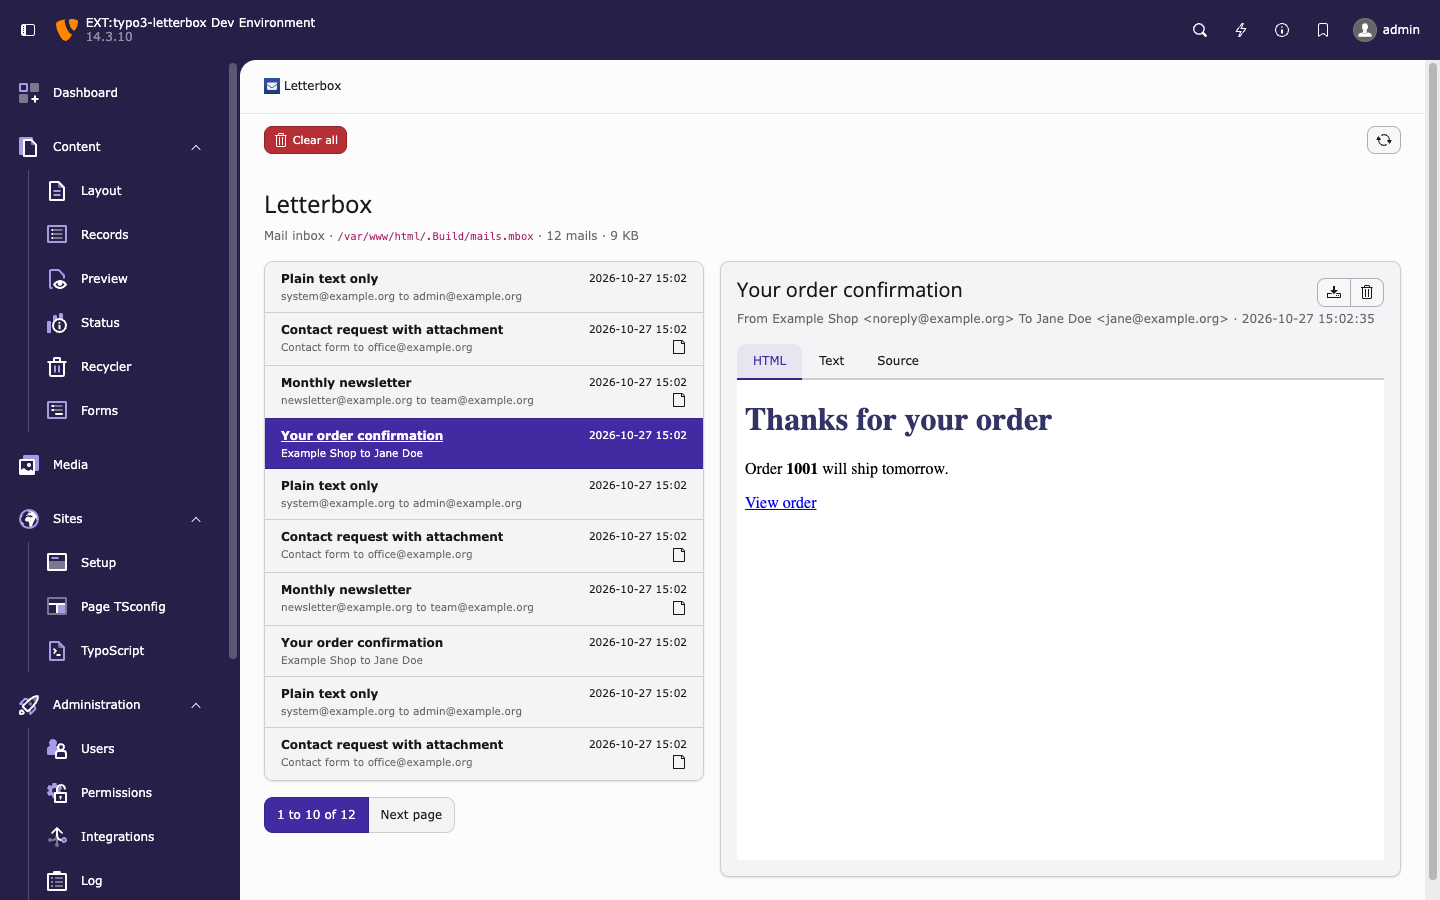
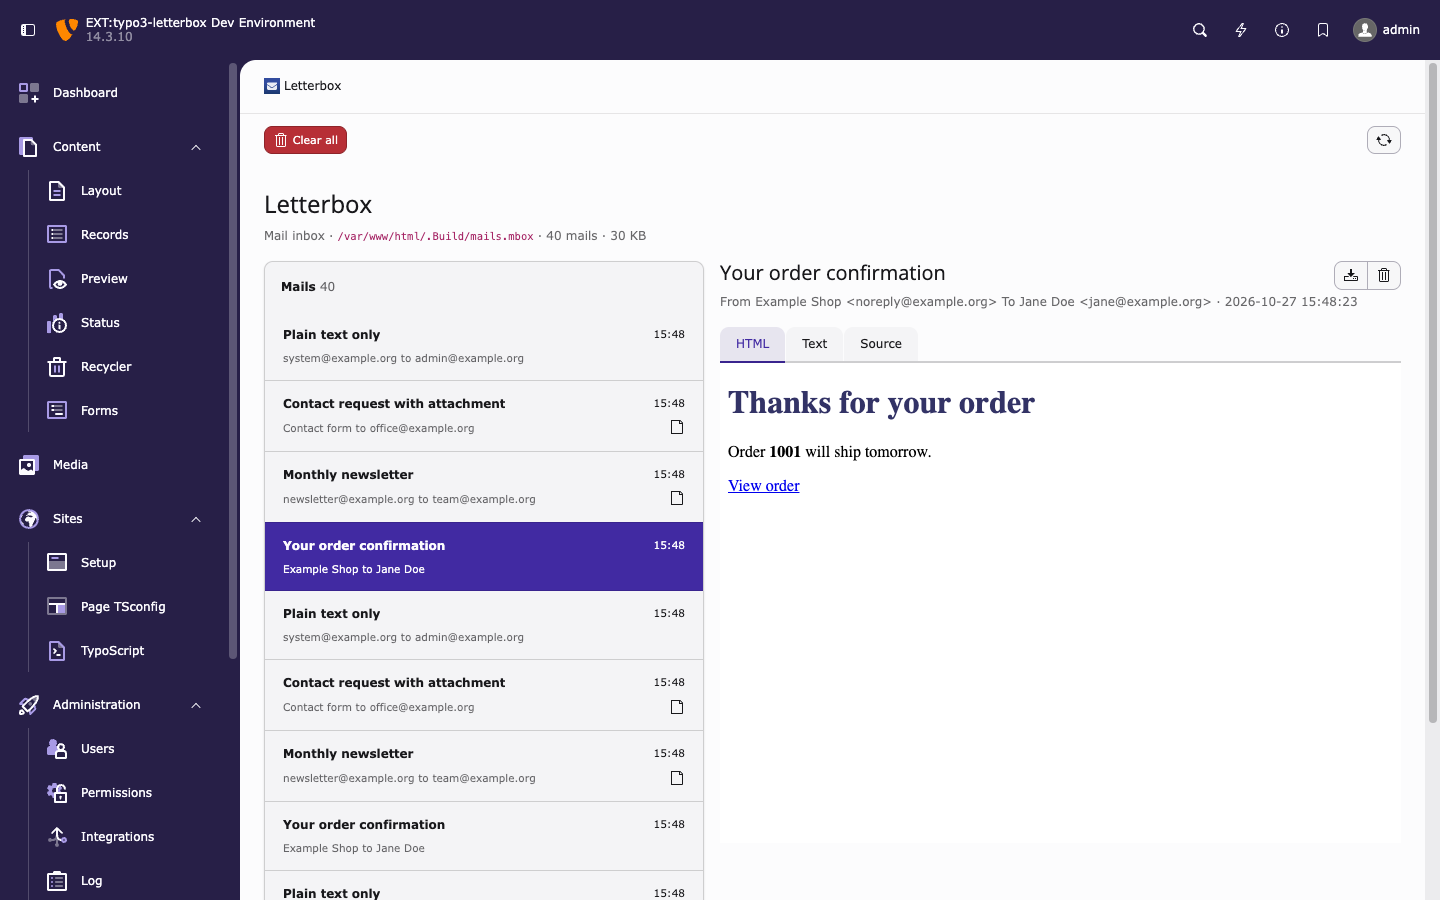
fix: align inbox layout with design

diff --git a/Resources/Private/Partials/MailList.html b/Resources/Private/Partials/MailList.html
@@ -9,66 +9,85 @@
 </form>
 
 <div class="card letterbox-list">
-    <ul class="list-group list-group-flush" aria-label="{f:translate(key: 'inbox.mailList', extensionName: 'Typo3Letterbox')}">
+    <div class="card-header">
+        <span class="fw-bold" id="letterbox-list-label"><f:translate key="inbox.mailList" extensionName="Typo3Letterbox" /></span>
+        <span class="text-variant">{total}</span>
+    </div>
+    <ul class="list-group list-group-flush" aria-labelledby="letterbox-list-label">
         <f:for each="{mails}" as="mail">
             <f:variable name="url" value="{f:be.uri(route: 'system_letterbox.show', parameters: {id: mail.id, page: page})}" />
             <f:variable name="isSelected" value="{f:if(condition: '{mail.id} == {selectedId}', then: 1, else: 0)}" />
-            <li class="list-group-item list-group-item-action{f:if(condition: isSelected, then: ' active')}">
-                <span class="d-flex justify-content-between gap-2">
-                    <f:if condition="{isSelected}">
-                        <f:then>
-                            <a href="{url}" class="stretched-link text-reset text-truncate fw-bold" aria-current="true"><f:render section="LinkText" arguments="{mail: mail}" /></a>
-                        </f:then>
-                        <f:else>
-                            <a href="{url}" class="stretched-link text-reset text-truncate fw-bold"><f:render section="LinkText" arguments="{mail: mail}" /></a>
-                        </f:else>
-                    </f:if>
-                    <f:if condition="{mail.date}">
-                        <small class="text-nowrap"><f:format.date date="{mail.date}" format="Y-m-d H:i" /></small>
-                    </f:if>
-                </span>
-                <span class="d-flex justify-content-between gap-2">
-                    <small class="text-truncate{f:if(condition: isSelected, else: ' text-variant')}">
-                        <f:render section="AddressName" arguments="{address: mail.from}" />
-                        <f:if condition="{mail.to.0}">
-                            <f:translate key="inbox.to" extensionName="Typo3Letterbox" />
-                            <f:render section="AddressName" arguments="{address: mail.to.0}" />
-                        </f:if>
-                    </small>
-                    <f:if condition="{mail.attachments}">
-                        <span class="text-nowrap" aria-hidden="true"><core:icon identifier="actions-file" size="small" /></span>
-                    </f:if>
-                </span>
+            <li class="list-group-item list-group-item-action p-0{f:if(condition: isSelected, then: ' active')}">
+                <f:if condition="{isSelected}">
+                    <f:then>
+                        <a href="{url}" class="letterbox-row text-reset text-decoration-none" aria-current="true"><f:render section="RowContent" arguments="{mail: mail, isSelected: isSelected, listDates: listDates}" /></a>
+                    </f:then>
+                    <f:else>
+                        <a href="{url}" class="letterbox-row text-reset text-decoration-none"><f:render section="RowContent" arguments="{mail: mail, isSelected: isSelected, listDates: listDates}" /></a>
+                    </f:else>
+                </f:if>
             </li>
         </f:for>
     </ul>
+    <f:if condition="{paginator.numberOfPages} > 1">
+        <div class="card-footer d-flex flex-wrap justify-content-between align-items-center gap-2">
+            <span aria-live="polite">
+                <f:translate key="inbox.pagination.range" extensionName="Typo3Letterbox" arguments="{0: pagination.startRecordNumber, 1: pagination.endRecordNumber, 2: total}" />
+            </span>
+            <nav aria-label="{f:translate(key: 'inbox.pagination', extensionName: 'Typo3Letterbox')}">
+                <ul class="pagination mb-0">
+                    <f:if condition="{pagination.previousPageNumber}">
+                        <li class="page-item">
+                            <a class="page-link" href="{f:be.uri(route: 'system_letterbox', parameters: {page: pagination.previousPageNumber})}" title="{f:translate(key: 'inbox.pagination.previous', extensionName: 'Typo3Letterbox')}">
+                                <span aria-hidden="true"><core:icon identifier="actions-chevron-left" /></span>
+                                <span class="visually-hidden"><f:translate key="inbox.pagination.previous" extensionName="Typo3Letterbox" /></span>
+                            </a>
+                        </li>
+                    </f:if>
+                    <f:for each="{pagination.allPageNumbers}" as="pageNumber">
+                        <f:if condition="{pageNumber} == {paginator.currentPageNumber}">
+                            <f:then>
+                                <li class="page-item active"><a class="page-link" href="{f:be.uri(route: 'system_letterbox', parameters: {page: pageNumber})}" aria-current="page">{pageNumber}</a></li>
+                            </f:then>
+                            <f:else>
+                                <li class="page-item"><a class="page-link" href="{f:be.uri(route: 'system_letterbox', parameters: {page: pageNumber})}">{pageNumber}</a></li>
+                            </f:else>
+                        </f:if>
+                    </f:for>
+                    <f:if condition="{pagination.nextPageNumber}">
+                        <li class="page-item">
+                            <a class="page-link" href="{f:be.uri(route: 'system_letterbox', parameters: {page: pagination.nextPageNumber})}" title="{f:translate(key: 'inbox.pagination.next', extensionName: 'Typo3Letterbox')}">
+                                <span aria-hidden="true"><core:icon identifier="actions-chevron-right" /></span>
+                                <span class="visually-hidden"><f:translate key="inbox.pagination.next" extensionName="Typo3Letterbox" /></span>
+                            </a>
+                        </li>
+                    </f:if>
+                </ul>
+            </nav>
+        </div>
+    </f:if>
 </div>
 
-<f:if condition="{paginator.numberOfPages} > 1">
-    <nav class="mt-3" aria-label="{f:translate(key: 'inbox.pagination', extensionName: 'Typo3Letterbox')}">
-        <ul class="pagination">
-            <f:if condition="{pagination.previousPageNumber}">
-                <li class="page-item">
-                    <a class="page-link" href="{f:be.uri(route: 'system_letterbox', parameters: {page: pagination.previousPageNumber})}">
-                        <f:translate key="inbox.pagination.previous" extensionName="Typo3Letterbox" />
-                    </a>
-                </li>
+<f:section name="RowContent">
+    <span class="d-flex justify-content-between gap-2">
+        <span class="text-truncate fw-bold"><f:render section="LinkText" arguments="{mail: mail}" /></span>
+        <f:if condition="{listDates.{mail.id}}">
+            <small class="text-nowrap">{listDates.{mail.id}}</small>
+        </f:if>
+    </span>
+    <span class="d-flex justify-content-between align-items-center gap-2">
+        <small class="text-truncate{f:if(condition: isSelected, else: ' text-variant')}">
+            <f:render section="AddressName" arguments="{address: mail.from}" />
+            <f:if condition="{mail.to.0}">
+                <f:translate key="inbox.to" extensionName="Typo3Letterbox" />
+                <f:render section="AddressName" arguments="{address: mail.to.0}" />
             </f:if>
-            <li class="page-item active" aria-current="page">
-                <span class="page-link" aria-live="polite">
-                    <f:translate key="inbox.pagination.range" extensionName="Typo3Letterbox" arguments="{0: pagination.startRecordNumber, 1: pagination.endRecordNumber, 2: total}" />
-                </span>
-            </li>
-            <f:if condition="{pagination.nextPageNumber}">
-                <li class="page-item">
-                    <a class="page-link" href="{f:be.uri(route: 'system_letterbox', parameters: {page: pagination.nextPageNumber})}">
-                        <f:translate key="inbox.pagination.next" extensionName="Typo3Letterbox" />
-                    </a>
-                </li>
-            </f:if>
-        </ul>
-    </nav>
-</f:if>
+        </small>
+        <f:if condition="{mail.attachments}">
+            <span class="flex-shrink-0" aria-hidden="true"><core:icon identifier="actions-file" size="small" /></span>
+        </f:if>
+    </span>
+</f:section>
 
 <f:section name="LinkText"><f:if condition="{mail.subject}"><f:then>{mail.subject}</f:then><f:else><f:translate key="inbox.noSubject" extensionName="Typo3Letterbox" /></f:else></f:if><f:if condition="{mail.attachments}"><span class="visually-hidden">, <f:translate key="inbox.hasAttachments" extensionName="Typo3Letterbox" /></span></f:if></f:section>
 

diff --git a/Resources/Private/Templates/Inbox/Show.html b/Resources/Private/Templates/Inbox/Show.html
@@ -15,8 +15,8 @@
             <div>
                 <f:render partial="MailList" arguments="{_all}" />
             </div>
-            <article class="card letterbox-detail" aria-labelledby="letterbox-subject">
-                <div class="card-body">
+            <article class="letterbox-detail" aria-labelledby="letterbox-subject">
+                <div>
                     <div class="d-flex justify-content-between align-items-start gap-3">
                         <f:variable name="subject" value="{f:if(condition: mail.subject, then: mail.subject, else: '{f:translate(key: \'inbox.noSubject\', extensionName: \'Typo3Letterbox\')}')}" />
                         <h2 id="letterbox-subject" class="text-break">{subject}</h2>
@@ -47,7 +47,7 @@
                             <f:translate key="inbox.detail.cc" extensionName="Typo3Letterbox" />
                             <f:render section="Addresses" arguments="{addresses: mail.cc}" />
                         </f:if>
-                        <f:if condition="{mail.date}">· <f:format.date date="{mail.date}" format="Y-m-d H:i:s" /></f:if>
+                        <f:if condition="{mailDate}">· <f:format.date date="{mailDate}" format="Y-m-d H:i:s" /></f:if>
                     </p>
 
                     <f:if condition="{mail.attachments}">
@@ -64,25 +64,29 @@
                     </f:if>
 
                     <ul class="nav nav-tabs" role="tablist">
-                        <f:render section="Tab" arguments="{name: 'html', defaultTab: defaultTab}" />
+                        <f:if condition="{hasHtml}">
+                            <f:render section="Tab" arguments="{name: 'html', defaultTab: defaultTab}" />
+                        </f:if>
                         <f:render section="Tab" arguments="{name: 'text', defaultTab: defaultTab}" />
                         <f:render section="Tab" arguments="{name: 'source', defaultTab: defaultTab}" />
                     </ul>
                     <div class="tab-content">
-                        <div class="tab-pane{f:if(condition: '{defaultTab} == \'html\'', then: ' active')}" id="letterbox-pane-html" role="tabpanel" aria-labelledby="letterbox-tab-html" tabindex="0">
-                            <f:if condition="{htmlDocument}">
-                                <f:then>
-                                    <iframe class="letterbox-preview" sandbox="allow-popups allow-popups-to-escape-sandbox" srcdoc="{htmlDocument}" title="{f:translate(key: 'inbox.preview', extensionName: 'Typo3Letterbox', arguments: {0: subject})}"></iframe>
-                                </f:then>
-                                <f:else>
-                                    <div class="callout callout-info mt-3">
-                                        <div class="callout-content">
-                                            <div class="callout-body"><f:translate key="inbox.noHtml" extensionName="Typo3Letterbox" /></div>
+                        <f:if condition="{hasHtml}">
+                            <div class="tab-pane{f:if(condition: '{defaultTab} == \'html\'', then: ' active')}" id="letterbox-pane-html" role="tabpanel" aria-labelledby="letterbox-tab-html" tabindex="0">
+                                <f:if condition="{htmlDocument}">
+                                    <f:then>
+                                        <iframe class="letterbox-preview" sandbox="allow-popups allow-popups-to-escape-sandbox" srcdoc="{htmlDocument}" title="{f:translate(key: 'inbox.preview', extensionName: 'Typo3Letterbox', arguments: {0: subject})}"></iframe>
+                                    </f:then>
+                                    <f:else>
+                                        <div class="callout callout-info mt-3">
+                                            <div class="callout-content">
+                                                <div class="callout-body"><f:translate key="inbox.noHtml" extensionName="Typo3Letterbox" /></div>
+                                            </div>
                                         </div>
-                                    </div>
-                                </f:else>
-                            </f:if>
-                        </div>
+                                    </f:else>
+                                </f:if>
+                            </div>
+                        </f:if>
                         <div class="tab-pane{f:if(condition: '{defaultTab} == \'text\'', then: ' active')}" id="letterbox-pane-text" role="tabpanel" aria-labelledby="letterbox-tab-text" tabindex="0">
                             <f:if condition="{mail.text}">
                                 <f:then><pre class="letterbox-text">{mail.text}</pre></f:then>

diff --git a/Resources/Public/Css/inbox.css b/Resources/Public/Css/inbox.css
@@ -4,6 +4,13 @@
   grid-template-columns: minmax(0, 1fr);
 }
 
+/* The link fills the whole list item, so hover area and click area match. */
+.letterbox-list .letterbox-row {
+  display: grid;
+  gap: 6px;
+  padding: 14px 18px;
+}
+
 .letterbox-preview {
   background-color: Canvas;
   border: 0;

diff --git a/Classes/Controller/InboxController.php b/Classes/Controller/InboxController.php
@@ -13,6 +13,7 @@ declare(strict_types=1);
 
 namespace KonradMichalik\Typo3Letterbox\Controller;
 
+use DateTimeImmutable;
 use KonradMichalik\Typo3Letterbox\Domain\Model\{Mail, MailFilter};
 use KonradMichalik\Typo3Letterbox\Domain\Repository\MailRepository;
 use KonradMichalik\Typo3Letterbox\Html\MailHtmlDocument;
@@ -25,13 +26,14 @@ use TYPO3\CMS\Backend\Template\Components\Buttons\{InputButton, LinkButton};
 use TYPO3\CMS\Backend\Template\{ModuleTemplate, ModuleTemplateFactory};
 use TYPO3\CMS\Core\Configuration\Exception\{ExtensionConfigurationExtensionNotConfiguredException, ExtensionConfigurationPathDoesNotExistException};
 use TYPO3\CMS\Core\Configuration\ExtensionConfiguration;
+use TYPO3\CMS\Core\Context\Context;
 use TYPO3\CMS\Core\FormProtection\FormProtectionFactory;
 use TYPO3\CMS\Core\Http\RedirectResponse;
 use TYPO3\CMS\Core\Imaging\{IconFactory, IconSize};
 use TYPO3\CMS\Core\Information\Typo3Version;
 use TYPO3\CMS\Core\Localization\LanguageService;
 use TYPO3\CMS\Core\Page\PageRenderer;
-use TYPO3\CMS\Core\Pagination\SimplePagination;
+use TYPO3\CMS\Core\Pagination\SlidingWindowPagination;
 use TYPO3\CMS\Core\Utility\GeneralUtility;
 
 use function is_array;
@@ -52,6 +54,7 @@ final readonly class InboxController
     private const CLEAR_FORM_ID = 'letterbox-clear-form';
     private const LANGUAGE_FILE = 'LLL:EXT:typo3_letterbox/Resources/Private/Language/locallang.xlf:';
     private const DEFAULT_MAILS_PER_PAGE = 10;
+    private const PAGE_LINKS = 5;
 
     public function __construct(
         private ModuleTemplateFactory $moduleTemplateFactory,
@@ -65,6 +68,7 @@ final readonly class InboxController
         private IconFactory $iconFactory,
         private PageRenderer $pageRenderer,
         private Typo3Version $typo3Version,
+        private Context $context,
     ) {}
 
     public function indexAction(ServerRequestInterface $request): ResponseInterface
@@ -83,6 +87,8 @@ final readonly class InboxController
         $view = $this->createView($request, $mail->id);
         $view->assignMultiple([
             'mail' => $mail,
+            'mailDate' => $mail->date?->setTimezone($this->now()->getTimezone()),
+            'hasHtml' => '' !== trim($mail->html),
             'htmlDocument' => $htmlDocument,
             'defaultTab' => '' === $htmlDocument ? 'text' : 'html',
         ]);
@@ -160,8 +166,9 @@ final readonly class InboxController
             'size' => $this->repository->sizeInBytes(),
             'total' => $total,
             'mails' => $paginator->getPaginatedItems(),
+            'listDates' => $this->listDates($paginator->getPaginatedItems()),
             'paginator' => $paginator,
-            'pagination' => new SimplePagination($paginator),
+            'pagination' => new SlidingWindowPagination($paginator, self::PAGE_LINKS),
             'page' => $paginator->getCurrentPageNumber(),
             'selectedId' => $selectedId,
             'token' => $token,
@@ -240,6 +247,41 @@ final readonly class InboxController
         $page = $request->getQueryParams()['page'] ?? '1';
 
         return is_string($page) && 1 === preg_match('/^[1-9]\d{0,8}$/D', $page) ? (int) $page : 1;
+    }
+
+    /**
+     * List rows show the time for today's mails, "Yesterday", or the date, in the backend's timezone.
+     *
+     * @param iterable<Mail> $mails
+     *
+     * @return array<string, string>
+     */
+    private function listDates(iterable $mails): array
+    {
+        $now = $this->now();
+        $today = $now->format('Y-m-d');
+        $yesterday = $now->modify('-1 day')->format('Y-m-d');
+        $labels = [];
+        foreach ($mails as $mail) {
+            if (null === $mail->date) {
+                continue;
+            }
+            $local = $mail->date->setTimezone($now->getTimezone());
+            $labels[$mail->id] = match ($local->format('Y-m-d')) {
+                $today => $local->format('H:i'),
+                $yesterday => $this->translate('inbox.yesterday'),
+                default => $local->format('Y-m-d'),
+            };
+        }
+
+        return $labels;
+    }
+
+    private function now(): DateTimeImmutable
+    {
+        $now = $this->context->getPropertyFromAspect('date', 'full');
+
+        return $now instanceof DateTimeImmutable ? $now : new DateTimeImmutable();
     }
 
     private function mailsPerPage(): int

diff --git a/Tests/Functional/Controller/InboxControllerTest.php b/Tests/Functional/Controller/InboxControllerTest.php
@@ -14,6 +14,7 @@ declare(strict_types=1);
 namespace KonradMichalik\Typo3Letterbox\Tests\Functional\Controller;
 
 use DateTimeImmutable;
+use DateTimeZone;
 use KonradMichalik\Typo3Letterbox\Controller\InboxController;
 use KonradMichalik\Typo3Letterbox\Domain\Model\MailFilter;
 use KonradMichalik\Typo3Letterbox\Domain\Repository\MailRepository;
@@ -24,6 +25,7 @@ use TYPO3\CMS\Backend\Module\ModuleProvider;
 use TYPO3\CMS\Backend\Routing\{Router, UriBuilder};
 use TYPO3\CMS\Core\Authentication\BackendUserAuthentication;
 use TYPO3\CMS\Core\Cache\CacheManager;
+use TYPO3\CMS\Core\Context\{Context, DateTimeAspect};
 use TYPO3\CMS\Core\Core\{Environment, SystemEnvironmentBuilder};
 use TYPO3\CMS\Core\FormProtection\FormProtectionFactory;
 use TYPO3\CMS\Core\Http\{NormalizedParams, ServerRequest};
@@ -175,6 +177,36 @@ final class InboxControllerTest extends FunctionalTestCase
 
         self::assertStringContainsString('1 mail ', $body);
         self::assertStringNotContainsString('1 mails', $body);
+    }
+
+    #[Test]
+    public function textOnlyMailHasNoHtmlTab(): void
+    {
+        $this->appendRaw("From: s@example.org\nTo: r@example.org\nSubject: Plain\n\nJust text.\n");
+
+        $body = (string) $this->controller()->showAction($this->request('system_letterbox.show', ['id' => $this->firstId()]))->getBody();
+
+        self::assertStringNotContainsString('letterbox-tab-html', $body);
+        self::assertStringNotContainsString('No HTML preview available', $body);
+        self::assertMatchesRegularExpression('/id="letterbox-tab-text"[^>]*aria-selected="true"/', $body);
+    }
+
+    #[Test]
+    public function listShowsTimeTodayYesterdayOrDate(): void
+    {
+        $timezone = new DateTimeZone(date_default_timezone_get());
+        $now = new DateTimeImmutable('2026-10-27 12:00:00', $timezone);
+        $this->get(Context::class)->setAspect('date', new DateTimeAspect($now));
+        foreach (['older' => '2026-10-01 08:00:00', 'yesterday' => '2026-10-26 20:15:00', 'today' => '2026-10-27 09:30:00'] as $subject => $date) {
+            $header = (new DateTimeImmutable($date, $timezone))->format(\DATE_RFC2822);
+            $this->appendRaw("From: s@example.org\nTo: r@example.org\nSubject: {$subject}\nDate: {$header}\n\nbody\n");
+        }
+
+        $body = (string) $this->controller()->indexAction($this->request('system_letterbox'))->getBody();
+
+        self::assertMatchesRegularExpression('/>today<.*?<small class="text-nowrap">09:30<\/small>/s', $body);
+        self::assertMatchesRegularExpression('/>yesterday<.*?<small class="text-nowrap">Yesterday<\/small>/s', $body);
+        self::assertMatchesRegularExpression('/>older<.*?<small class="text-nowrap">2026-10-01<\/small>/s', $body);
     }
 
     #[Test]
@@ -339,5 +371,10 @@ final class InboxControllerTest extends FunctionalTestCase
     private function writer(): MailboxWriter
     {
         return new MailboxWriter($this->path, new MboxFormat(), new MailboxLock($this->get(LockFactory::class)));
+    }
+
+    private function appendRaw(string $raw): void
+    {
+        $this->writer()->append('s@example.org', new DateTimeImmutable('2026-10-27 10:00:00'), $raw);
     }
 }
